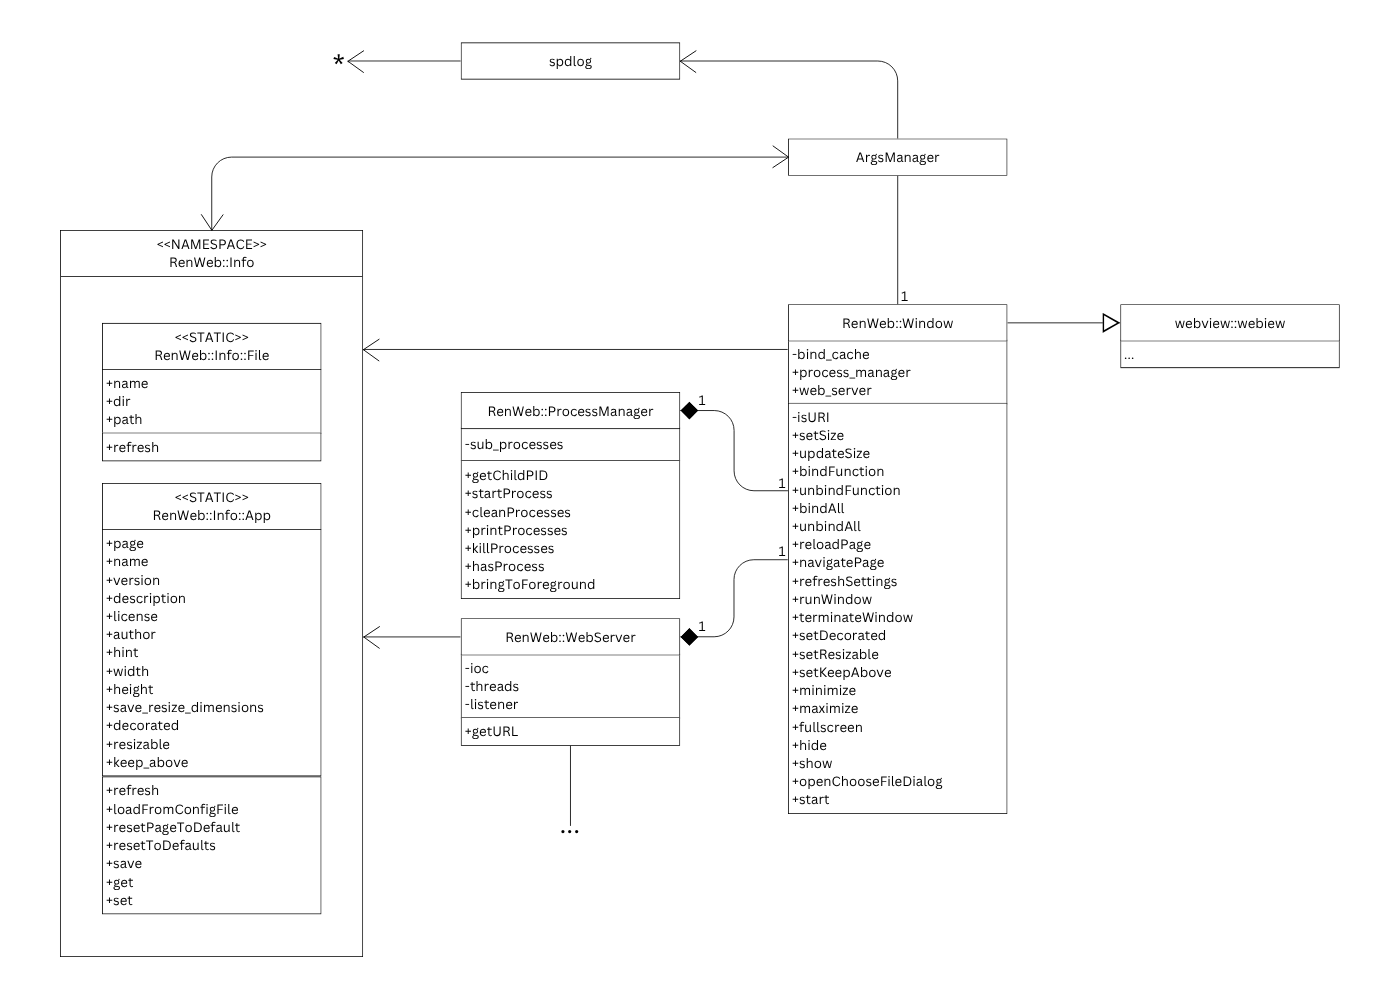
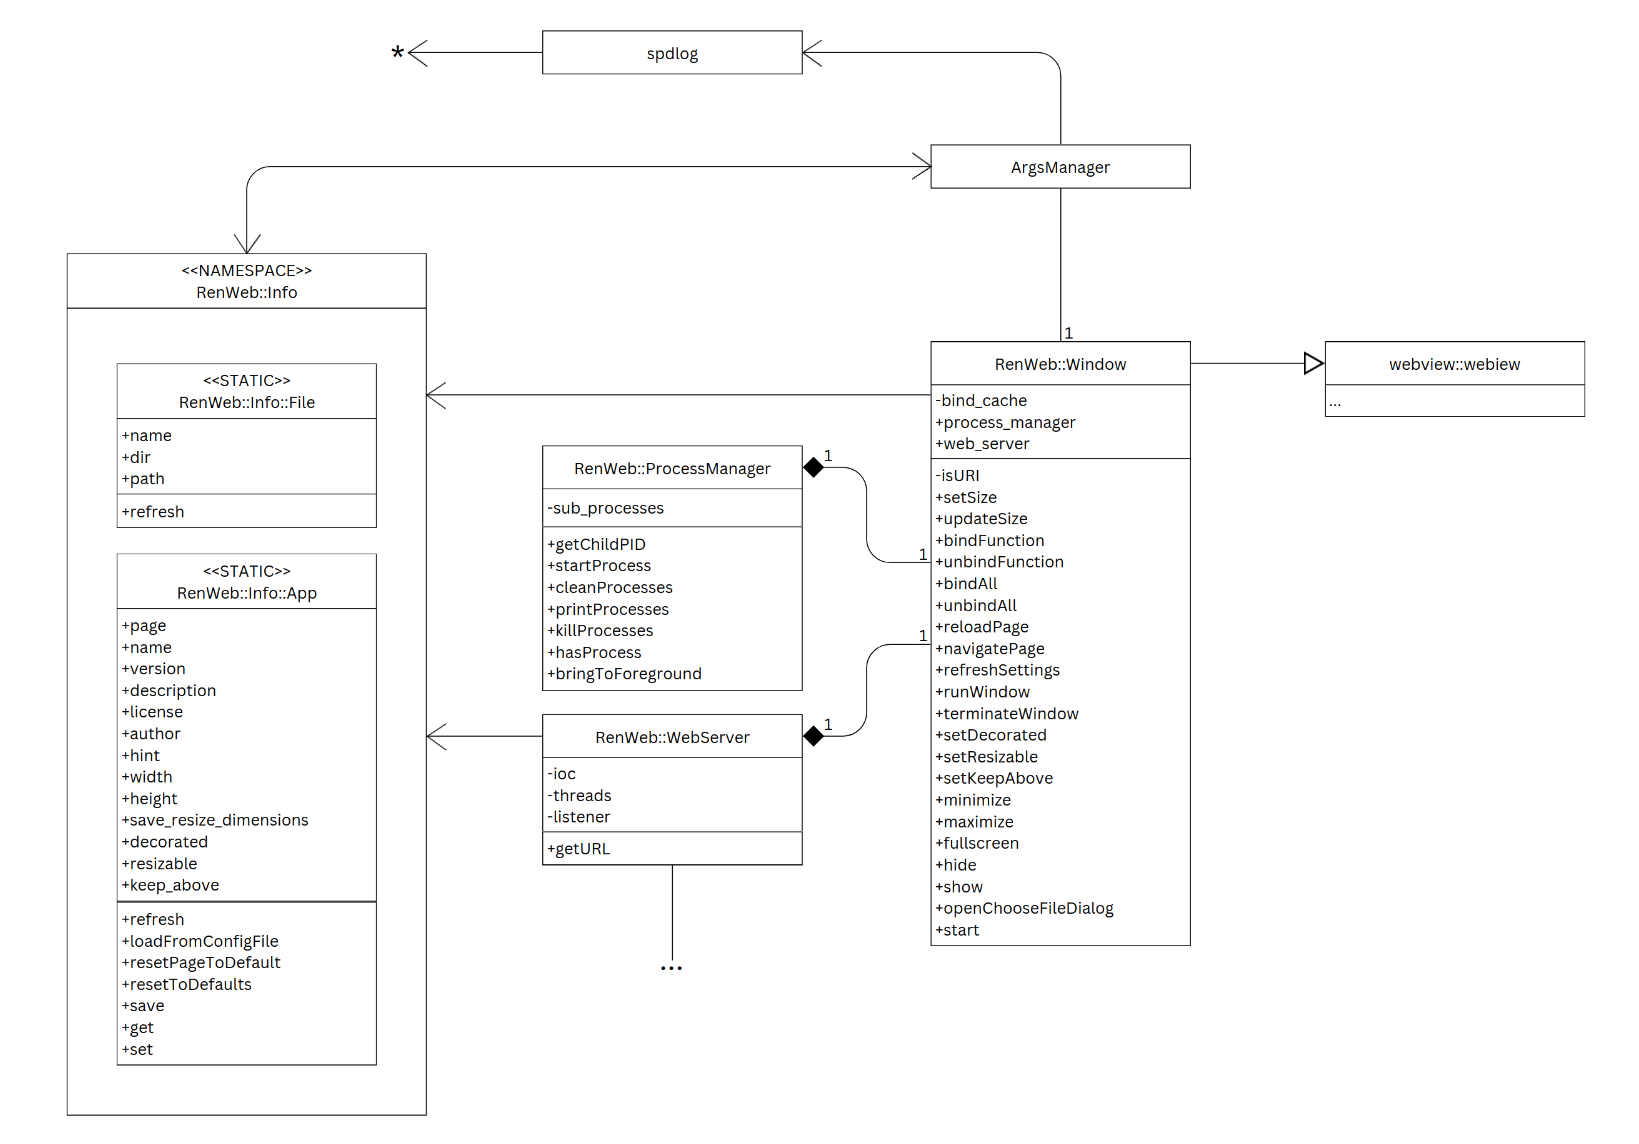
fedora changes and image res increase

diff --git a/README.md b/README.md
@@ -83,7 +83,7 @@ Now, install the required technologies to compile the executable
   - `dnf install gtk3-devel webkit2gtk4.1-devel`
   - `dnf install gtk3 webkit2gtk4.1`
   - `dnf install pkgconf-pkg-config`
-  - `dnf install boost-devel boost`
+  - `dnf install boost-devel boost-url`
 - **Other:**
   - *Download and install* <a href="">gtk3</a>
   - *Download and install* <a href="">webkit2</a>
@@ -298,7 +298,7 @@ To edit the build script, you can find it at <a href="./scripts//src/build.ts">.
 - Support for angular and vue (currently untested)
 - Support for Mac and Window
 - An npm script to generate installers for each OS
-- Increase the image resolutions
+- Switch to tsx
 
 ## Credits
 none as of now
